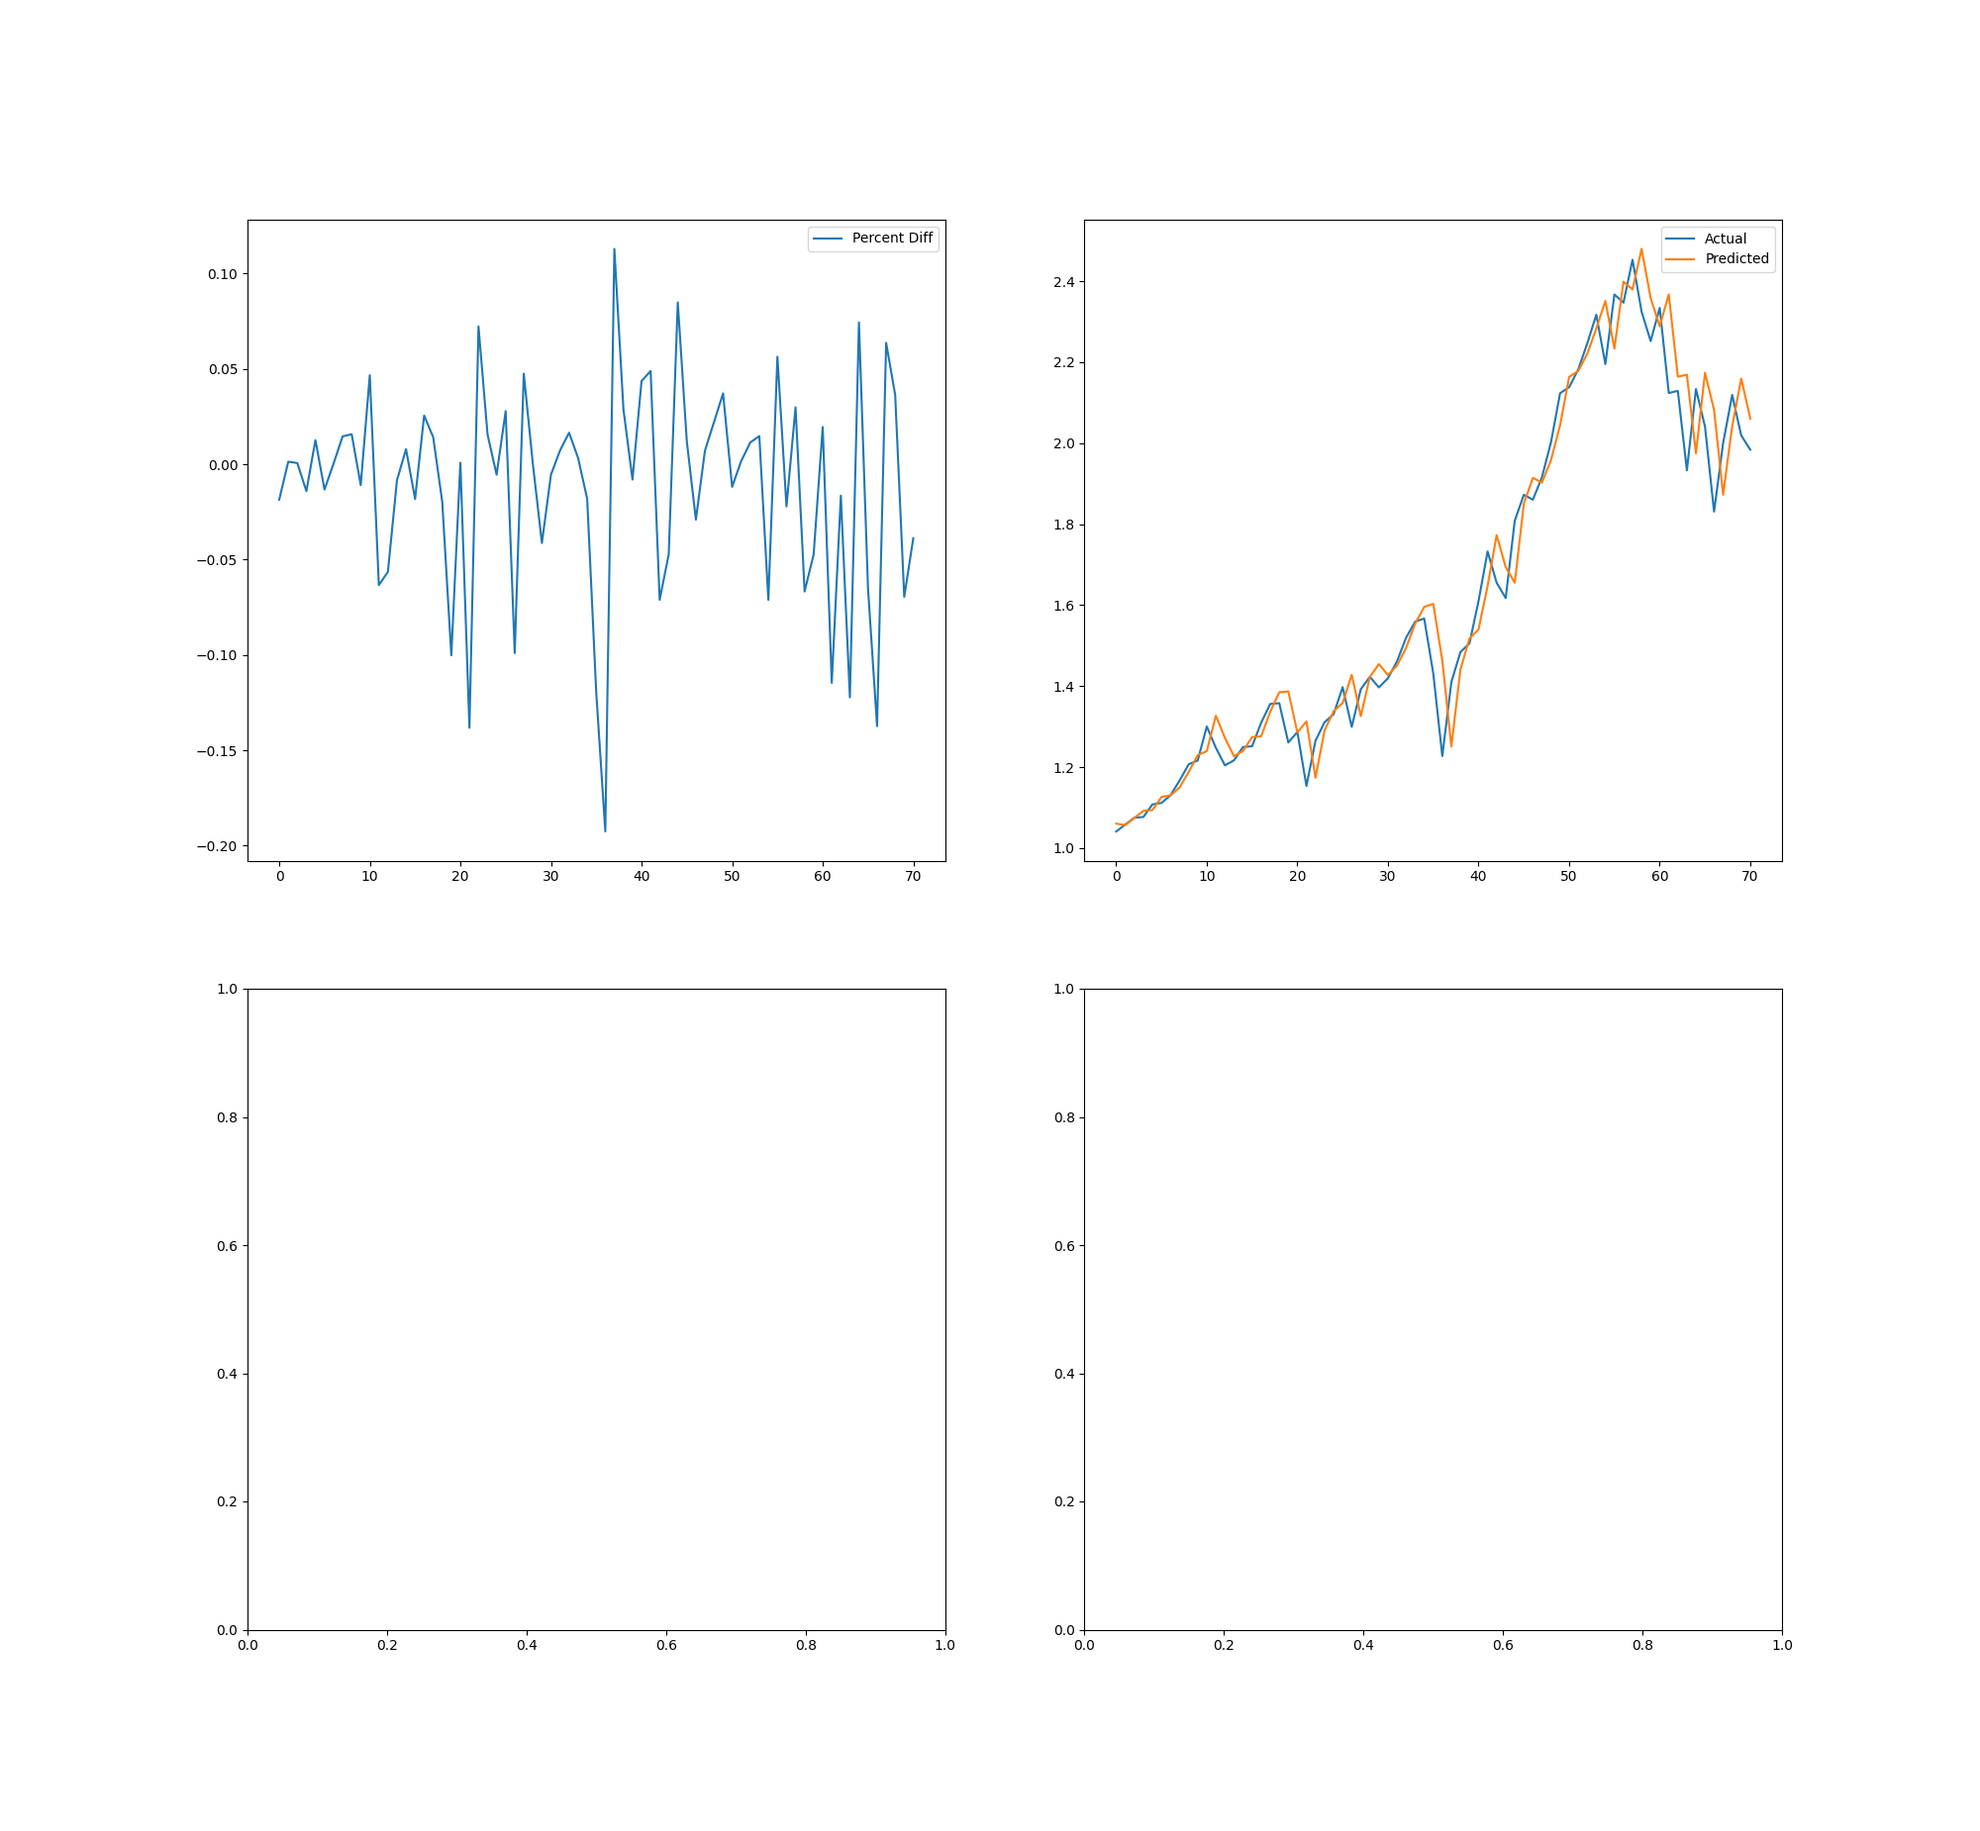
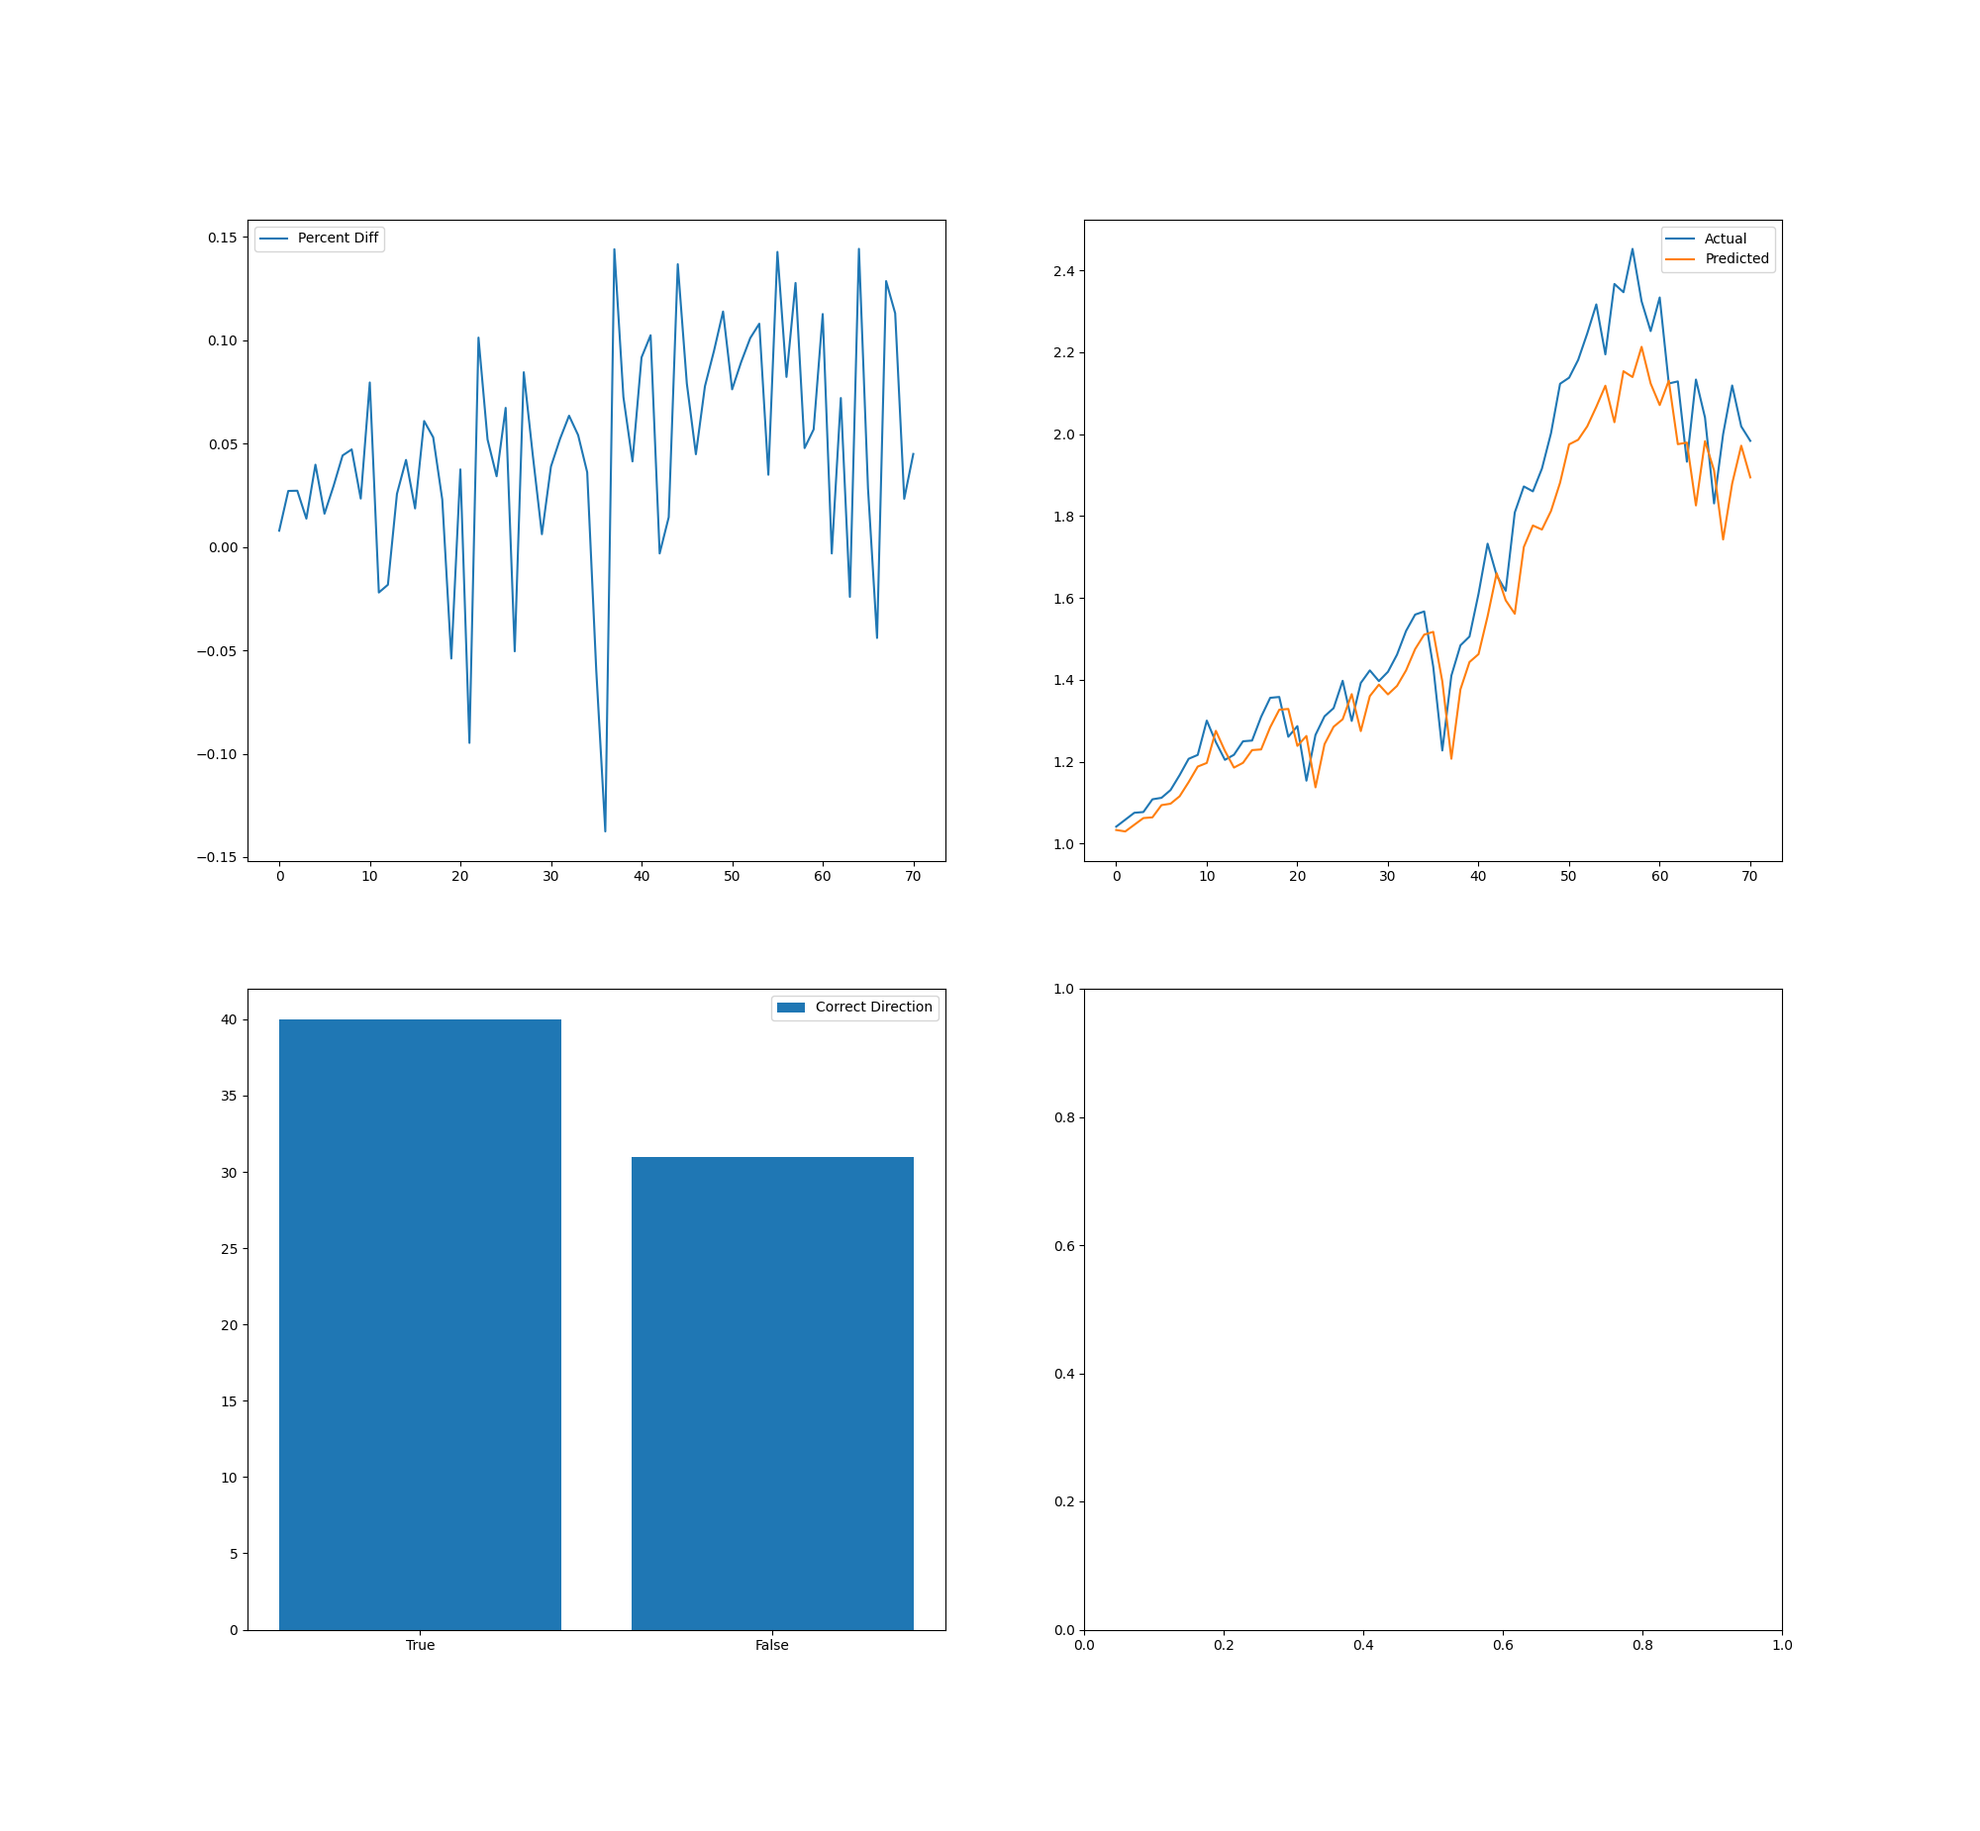
fixes

diff --git a/main.py b/main.py
@@ -9,31 +9,25 @@ from sklearn.model_selection import train_test_split
 from keras.models import Sequential
 from keras.layers import LSTM, Dense, Dropout
 import matplotlib.pyplot as plt
+from pathlib import Path
 
 
 def write_to_csv(index=False):
-    from pathlib import Path
-
-    outpath = Path("./percent_diff.csv")
-    percent_diff.to_csv(outpath, index=index)
-
-    outpath = Path("./actual.csv")
-    y_test.to_csv(outpath, index=index)
-
-    outpath = Path("./predicted.csv")
-    predictions.to_csv(outpath, index=index)
-
+    outpath = Path("./results.csv")
+    results.to_csv(outpath, index=index)
 
 def plot_values():
     # Plot the predicted values against the actual values
     figure, axis = plt.subplots(2, 2)
     figure.set_size_inches(20, 18.5)
-    axis[0, 0].plot(percent_diff, label="Percent Diff")
-    axis[0, 0].legend()
-    axis[0, 1].plot(y_test, label="Actual")
-    axis[0, 1].plot(predictions, label="Predicted")
-    axis[0, 1].legend()
-    axis[1, 0].bar(correct)
+    axis[0,0].plot(results['percent_diff'], label="Percent Diff")
+    axis[0,0].legend()
+    axis[0,1].plot(y_test, label="Actual")
+    axis[0,1].plot(predictions, label="Predicted")
+    axis[0,1].legend()
+    # TODO - check on the order here
+    axis[1,0].bar(["True", "False"], correct_counts, label="Correct Direction")
+    axis[1,0].legend()
     plt.savefig("plt.png", dpi=100)
 
 
@@ -76,10 +70,10 @@ model.add(Dropout(0.2))
 model.add(Dense(1))
 
 # Compile the model
-model.compile(loss="mean_squared_error", optimizer="adam")
+model.compile(loss="mean_absolute_error", optimizer="adam")
 
 # Fit the model to the training data
-model.fit(X_train, y_train, epochs=1, batch_size=1, verbose=1)
+model.fit(X_train, y_train, epochs=100, batch_size=1, verbose=1)
 
 # Evaluate the model on the test data
 score = model.evaluate(X_test, y_test, verbose=0)
@@ -91,13 +85,17 @@ predictions = model.predict(X_test)
 y_test = pd.DataFrame(y_test)
 predictions = pd.DataFrame(predictions)
 
-# print(predictions)
-percent_diff = (y_test - predictions) / y_test
-true_direction = y_test - y_test.shift(1)
-pred_direction = predictions - predictions.shift(1)
-# check if matching sign
-correct = [true_direction * pred_direction >= 0]
-print(correct)
+# make a results df to store analysis
+results = pd.DataFrame()
+results['percent_diff'] = (y_test - predictions) / y_test
+results['true_direction'] = y_test - y_test.shift(1)
+results['pred_direction'] = predictions - predictions.shift(1)
 
-# plot_values()
-# write_to_csv()
+# check if matching sign
+results['correct'] = results['true_direction'] * results['pred_direction'] >= 0
+correct_counts = results.correct.value_counts()
+print(type(correct_counts))
+print(correct_counts)
+
+plot_values()
+write_to_csv()
